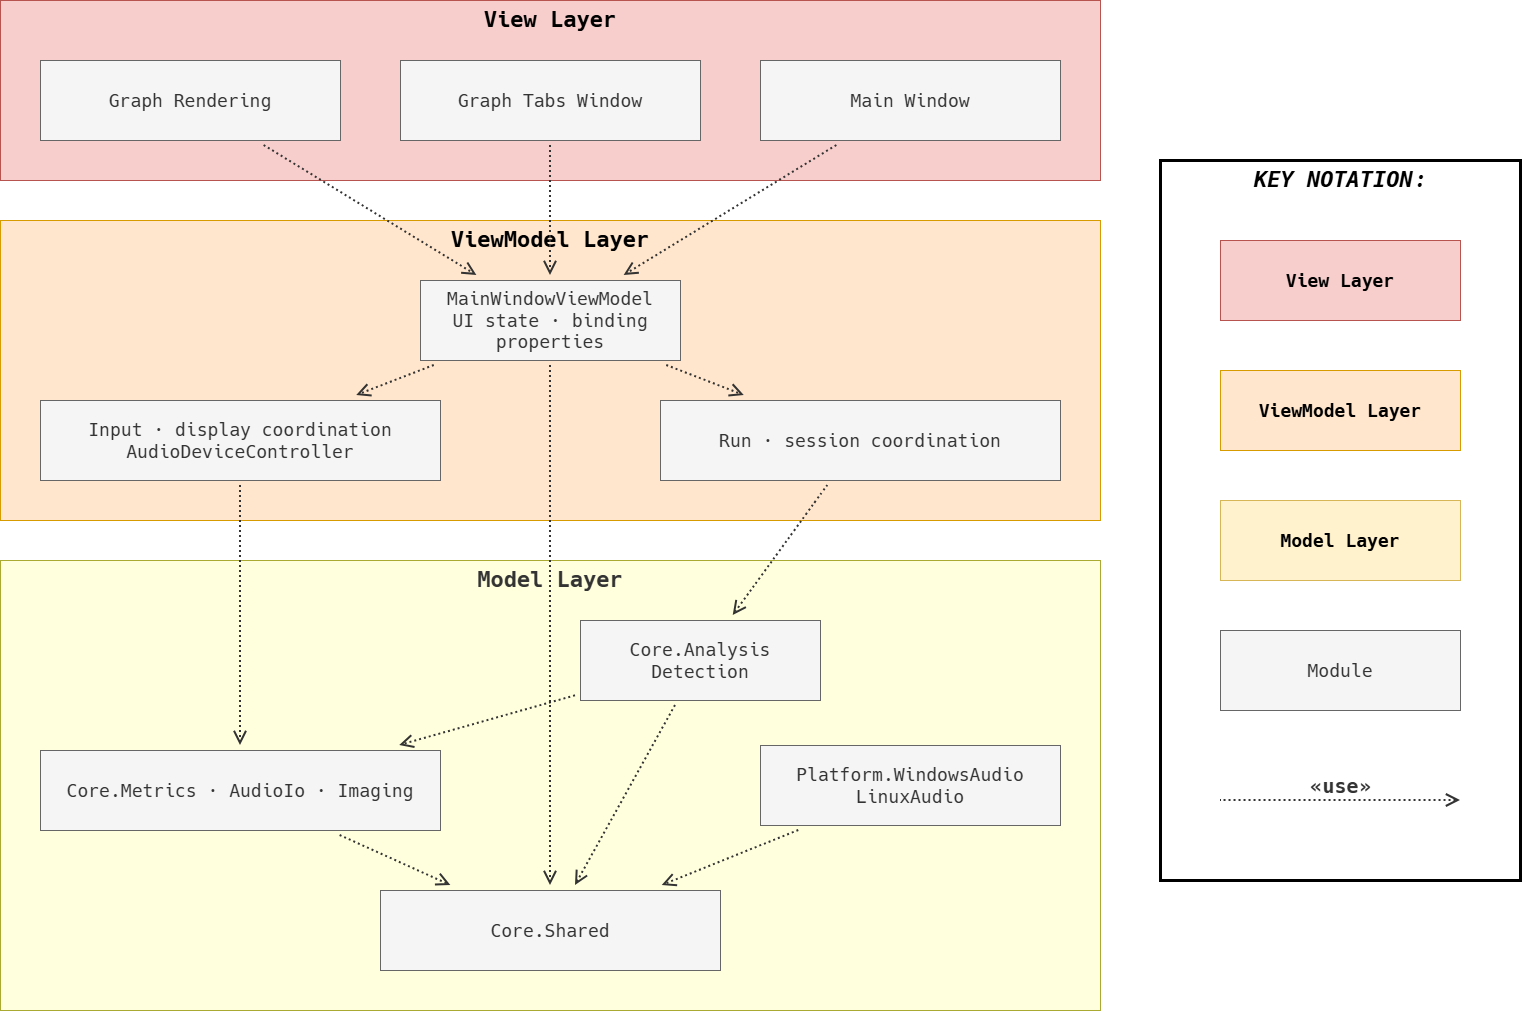
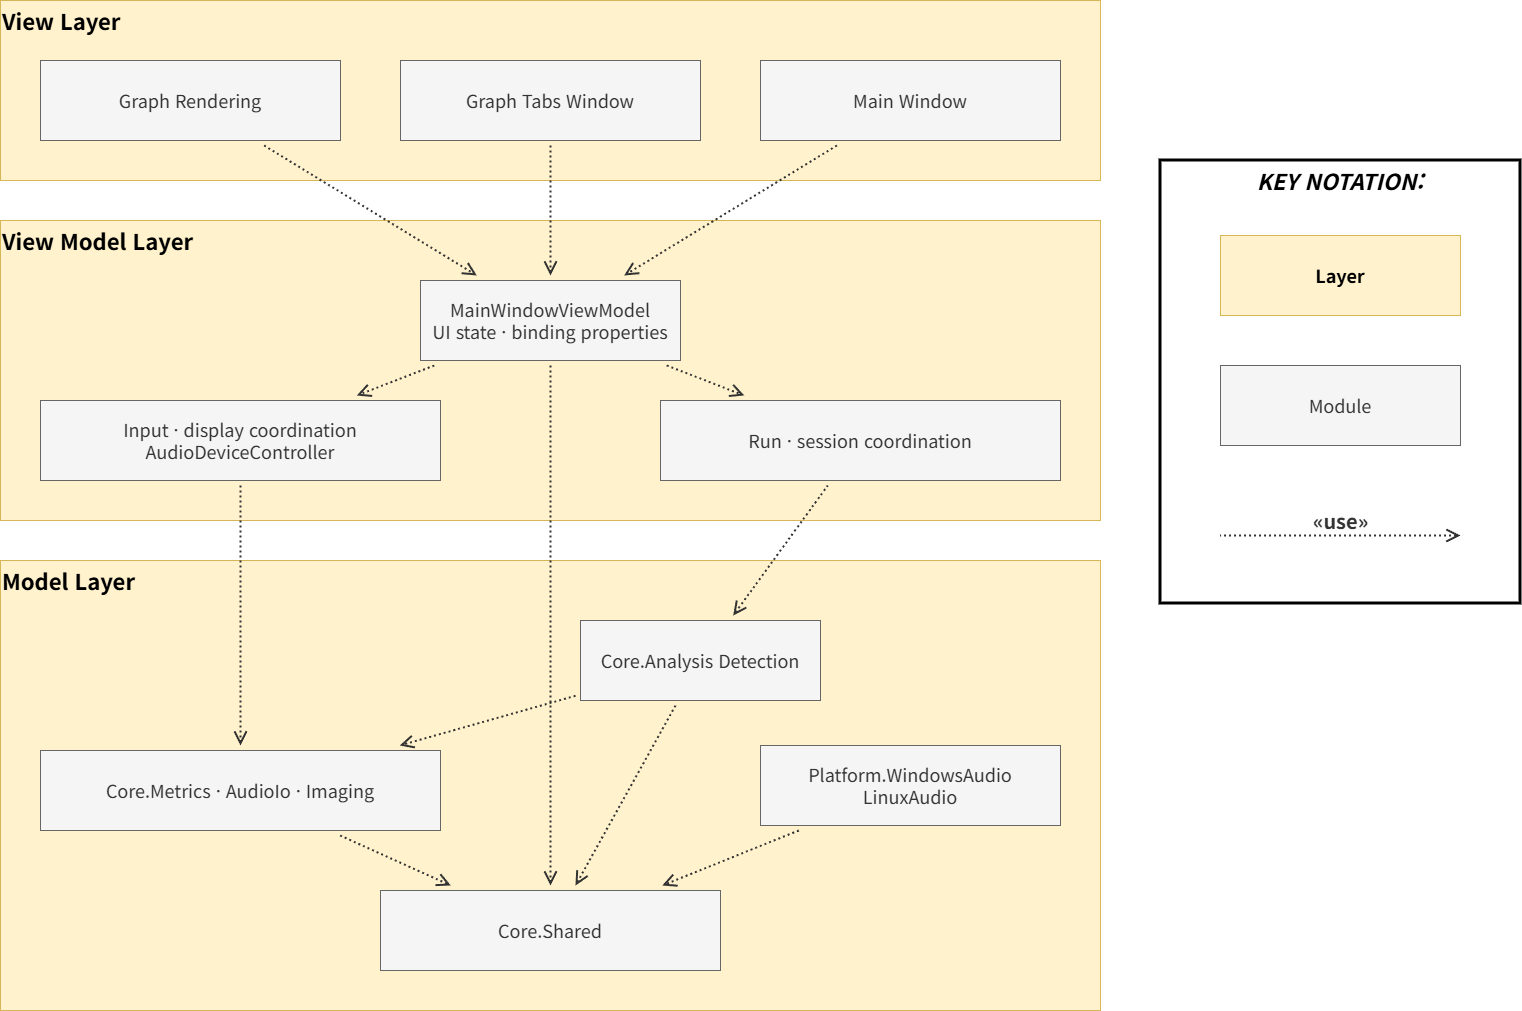
docs(MVVM): simplify legend to single Layer symbol per reviewer feedback
- Remove duplicate View/ViewModel/Model boxes from legend; legend now shows
  one generic Layer rectangle, Module, and «use» arrow only
- Restore 3-layer structure (View / ViewModel / Model) in main diagram
- Update exported MVVM.png

diff --git a/Milestone/ko/5-Architectural-View.md b/Milestone/ko/5-Architectural-View.md
@@ -11,7 +11,7 @@
 
 ### 1-1. TIMEGRAPHER MVVM VIEW – Responsibility Separation
 
-**표기:** 계층마다 색을 칠하고(View Layer / ViewModel Layer / Model Layer), 회색 상자는 **모듈**(관련 클래스 묶음)이다. 모든 의존성은 *사용하는* 모듈에서 *사용되는* 모듈로 향하는 점선 **«use»** 화살표로 그린다.
+**표기:** 3가지 계층으로 분리하며, (View Layer / ViewModel Layer / Model Layer), 회색 상자는 **모듈**(관련 클래스 묶음)이다. 모든 의존성은 *사용하는* 모듈에서 *사용되는* 모듈로 향하는 점선 **«use»** 화살표로 그린다.
 
 **의존 흐름(«use» 화살표):**
 - View Layer의 세 모듈은 `MainWindowViewModel`을 **사용**한다.
